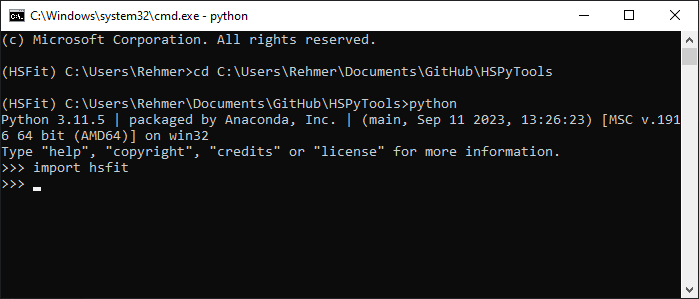
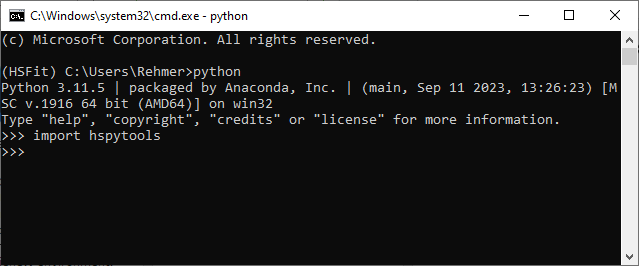
updated doc

Changed region(s): [[0.0, 0.0, 1.0, 1.0]]

diff --git a/README.md b/README.md
@@ -1,127 +1,3 @@
-<!-- Improved compatibility of back to top link: See: https://github.com/othneildrew/Best-README-Template/pull/73 -->
-
-<!--
-<a name="readme-top"></a>
--->
-
-<!--
-*** Thanks for checking out the Best-README-Template. If you have a suggestion
-*** that would make this better, please fork the repo and create a pull request
-*** or simply open an issue with the tag "enhancement".
-*** Don't forget to give the project a star!
-*** Thanks again! Now go create something AMAZING! :D
--->
-
-
-
-<!-- PROJECT SHIELDS -->
-<!--
-*** I'm using markdown "reference style" links for readability.
-*** Reference links are enclosed in brackets [ ] instead of parentheses ( ).
-*** See the bottom of this document for the declaration of the reference variables
-*** for contributors-url, forks-url, etc. This is an optional, concise syntax you may use.
-*** https://www.markdownguide.org/basic-syntax/#reference-style-links
-
-[![Contributors][contributors-shield]][contributors-url]
-[![Forks][forks-shield]][forks-url]
-[![Stargazers][stars-shield]][stars-url]
-[![Issues][issues-shield]][issues-url]
-[![MIT License][license-shield]][license-url]
-[![LinkedIn][linkedin-shield]][linkedin-url]
--->
-
-
-<!-- PROJECT LOGO 
-<br />
-<div align="center">
-  <a href="https://github.com/othneildrew/Best-README-Template">
-    <img src="images/logo.png" alt="Logo" width="80" height="80">
-  </a>
-
-  <h3 align="center">Best-README-Template</h3>
-
-  <p align="center">
-    An awesome README template to jumpstart your projects!
-    <br />
-    <a href="https://github.com/othneildrew/Best-README-Template"><strong>Explore the docs »</strong></a>
-    <br />
-    <br />
-    <a href="https://github.com/othneildrew/Best-README-Template">View Demo</a>
-    ·
-    <a href="https://github.com/othneildrew/Best-README-Template/issues">Report Bug</a>
-    ·
-    <a href="https://github.com/othneildrew/Best-README-Template/issues">Request Feature</a>
-  </p>
-</div>
-
--->
-
-<!-- TABLE OF CONTENTS 
-<details>
-  <summary>Table of Contents</summary>
-  <ol>
-    <li>
-      <a href="#about-the-project">About The Project</a>
-      <ul>
-        <li><a href="#built-with">Built With</a></li>
-      </ul>
-    </li>
-    <li>
-      <a href="#getting-started">Getting Started</a>
-      <ul>
-        <li><a href="#prerequisites">Prerequisites</a></li>
-        <li><a href="#installation">Installation</a></li>
-      </ul>
-    </li>
-    <li><a href="#usage">Usage</a></li>
-    <li><a href="#roadmap">Roadmap</a></li>
-    <li><a href="#contributing">Contributing</a></li>
-    <li><a href="#license">License</a></li>
-    <li><a href="#contact">Contact</a></li>
-    <li><a href="#acknowledgments">Acknowledgments</a></li>
-  </ol>
-</details>
-
--->
-
-<!-- ABOUT THE PROJECT 
-## About The Project
-
-[![Product Name Screen Shot][product-screenshot]](https://example.com)
-
-There are many great README templates available on GitHub; however, I didn't find one that really suited my needs so I created this enhanced one. I want to create a README template so amazing that it'll be the last one you ever need -- I think this is it.
-
-Here's why:
-* Your time should be focused on creating something amazing. A project that solves a problem and helps others
-* You shouldn't be doing the same tasks over and over like creating a README from scratch
-* You should implement DRY principles to the rest of your life :smile:
-
-Of course, no one template will serve all projects since your needs may be different. So I'll be adding more in the near future. You may also suggest changes by forking this repo and creating a pull request or opening an issue. Thanks to all the people have contributed to expanding this template!
-
-Use the `BLANK_README.md` to get started.
-
-<p align="right">(<a href="#readme-top">back to top</a>)</p>
-
-
-
-### Built With
-
-This section should list any major frameworks/libraries used to bootstrap your project. Leave any add-ons/plugins for the acknowledgements section. Here are a few examples.
-
-* [![Next][Next.js]][Next-url]
-* [![React][React.js]][React-url]
-* [![Vue][Vue.js]][Vue-url]
-* [![Angular][Angular.io]][Angular-url]
-* [![Svelte][Svelte.dev]][Svelte-url]
-* [![Laravel][Laravel.com]][Laravel-url]
-* [![Bootstrap][Bootstrap.com]][Bootstrap-url]
-* [![JQuery][JQuery.com]][JQuery-url]
-
-<p align="right">(<a href="#readme-top">back to top</a>)</p>
--->
-
-<!-- GETTING STARTED -->
-
 # Installation
 
 The library was developed using the Anaconda3 distribution of Python 3.11.5. In the following instructions for the installation via conda as well as pip are provided.
@@ -129,7 +5,7 @@ The library was developed using the Anaconda3 distribution of Python 3.11.5. In 
 ## Prerequisites
 - A working GitHub installation.
 
-## Download HSFit
+## Download HSPyTools
 
 1. Clone this repository either via using the shell
    ```sh
@@ -141,9 +17,6 @@ The library was developed using the Anaconda3 distribution of Python 3.11.5. In 
    and then enter the URL ```https://github.com/arehmer/HSFit.git``` into the mask <br>
    <img src="images/screenshot2_github_desktop.png" height="200">
   
-## Download HSPyTools
-This library depends on the HSPyTools library. Download this repository as well via the shell or GitHub Desktop-App. The URL is ```https://github.com/arehmer/HSPyTools.git```
-
    
 ## Install Anaconda
 1. Download and install the latest Anaconda distribution. [https://www.anaconda.com/](https://www.anaconda.com/)
@@ -163,6 +36,7 @@ This library depends on the HSPyTools library. Download this repository as well 
 
    <img src="images/AnacondaNavigator_CreateEnv.png"  width="600">
 
+In this documentation the created environment was named "HSFit".
 
 ## Install HSPyTools
 1. Activate the created environment by clicking on it in the "Environments" tab.
@@ -186,125 +60,16 @@ If pip is not installed in the environment yet, install it first via
 conda install pip
 ```
 
-## Install HSFit
-Repeat the same procedure but in the directory where HSFit is located.
 
 ## Check installation
 1. In the conda shell type
    ```sh
    python
    ```
-2. Then try to import HSFit by typing
+2. Then try to import HSPyTools by typing
    ```sh
-   import hsfit
+   import hspytools
    ```
 
 
    <img src="images/CondaShell_ImportHSFit.png"  width="600">
-
-
-<!-- ROADMAP 
-## Roadmap
-
-- [x] Add Changelog
-- [x] Add back to top links
-- [ ] Add Additional Templates w/ Examples
-- [ ] Add "components" document to easily copy & paste sections of the readme
-- [ ] Multi-language Support
-    - [ ] Chinese
-    - [ ] Spanish
-
-See the [open issues](https://github.com/othneildrew/Best-README-Template/issues) for a full list of proposed features (and known issues).
-
-<p align="right">(<a href="#readme-top">back to top</a>)</p>
--->
-
-
-<!-- CONTRIBUTING 
-## Contributing
-
-Contributions are what make the open source community such an amazing place to learn, inspire, and create. Any contributions you make are **greatly appreciated**.
-
-If you have a suggestion that would make this better, please fork the repo and create a pull request. You can also simply open an issue with the tag "enhancement".
-Don't forget to give the project a star! Thanks again!
-
-1. Fork the Project
-2. Create your Feature Branch (`git checkout -b feature/AmazingFeature`)
-3. Commit your Changes (`git commit -m 'Add some AmazingFeature'`)
-4. Push to the Branch (`git push origin feature/AmazingFeature`)
-5. Open a Pull Request
-
-<p align="right">(<a href="#readme-top">back to top</a>)</p>
-
--->
-
-<!-- LICENSE 
-## License
-
-Distributed under the MIT License. See `LICENSE.txt` for more information.
-
-<p align="right">(<a href="#readme-top">back to top</a>)</p>
-
--->
-
-<!-- CONTACT
-## Contact
-
-Your Name - [@your_twitter](https://twitter.com/your_username) - email@example.com
-
-Project Link: [https://github.com/your_username/repo_name](https://github.com/your_username/repo_name)
-
-<p align="right">(<a href="#readme-top">back to top</a>)</p>
-
- -->
-
-<!-- ACKNOWLEDGMENTS
-## Acknowledgments
-
-Use this space to list resources you find helpful and would like to give credit to. I've included a few of my favorites to kick things off!
-
-* [Choose an Open Source License](https://choosealicense.com)
-* [GitHub Emoji Cheat Sheet](https://www.webpagefx.com/tools/emoji-cheat-sheet)
-* [Malven's Flexbox Cheatsheet](https://flexbox.malven.co/)
-* [Malven's Grid Cheatsheet](https://grid.malven.co/)
-* [Img Shields](https://shields.io)
-* [GitHub Pages](https://pages.github.com)
-* [Font Awesome](https://fontawesome.com)
-* [React Icons](https://react-icons.github.io/react-icons/search)
-
-<p align="right">(<a href="#readme-top">back to top</a>)</p>
- -->
-
-
-<!-- MARKDOWN LINKS & IMAGES -->
-<!-- https://www.markdownguide.org/basic-syntax/#reference-style-links 
-[contributors-shield]: https://img.shields.io/github/contributors/othneildrew/Best-README-Template.svg?style=for-the-badge
-[contributors-url]: https://github.com/othneildrew/Best-README-Template/graphs/contributors
-[forks-shield]: https://img.shields.io/github/forks/othneildrew/Best-README-Template.svg?style=for-the-badge
-[forks-url]: https://github.com/othneildrew/Best-README-Template/network/members
-[stars-shield]: https://img.shields.io/github/stars/othneildrew/Best-README-Template.svg?style=for-the-badge
-[stars-url]: https://github.com/othneildrew/Best-README-Template/stargazers
-[issues-shield]: https://img.shields.io/github/issues/othneildrew/Best-README-Template.svg?style=for-the-badge
-[issues-url]: https://github.com/othneildrew/Best-README-Template/issues
-[license-shield]: https://img.shields.io/github/license/othneildrew/Best-README-Template.svg?style=for-the-badge
-[license-url]: https://github.com/othneildrew/Best-README-Template/blob/master/LICENSE.txt
-[linkedin-shield]: https://img.shields.io/badge/-LinkedIn-black.svg?style=for-the-badge&logo=linkedin&colorB=555
-[linkedin-url]: https://linkedin.com/in/othneildrew
-[product-screenshot]: images/screenshot.png
-[Next.js]: https://img.shields.io/badge/next.js-000000?style=for-the-badge&logo=nextdotjs&logoColor=white
-[Next-url]: https://nextjs.org/
-[React.js]: https://img.shields.io/badge/React-20232A?style=for-the-badge&logo=react&logoColor=61DAFB
-[React-url]: https://reactjs.org/
-[Vue.js]: https://img.shields.io/badge/Vue.js-35495E?style=for-the-badge&logo=vuedotjs&logoColor=4FC08D
-[Vue-url]: https://vuejs.org/
-[Angular.io]: https://img.shields.io/badge/Angular-DD0031?style=for-the-badge&logo=angular&logoColor=white
-[Angular-url]: https://angular.io/
-[Svelte.dev]: https://img.shields.io/badge/Svelte-4A4A55?style=for-the-badge&logo=svelte&logoColor=FF3E00
-[Svelte-url]: https://svelte.dev/
-[Laravel.com]: https://img.shields.io/badge/Laravel-FF2D20?style=for-the-badge&logo=laravel&logoColor=white
-[Laravel-url]: https://laravel.com
-[Bootstrap.com]: https://img.shields.io/badge/Bootstrap-563D7C?style=for-the-badge&logo=bootstrap&logoColor=white
-[Bootstrap-url]: https://getbootstrap.com
-[JQuery.com]: https://img.shields.io/badge/jQuery-0769AD?style=for-the-badge&logo=jquery&logoColor=white
-[JQuery-url]: https://jquery.com 
--->
